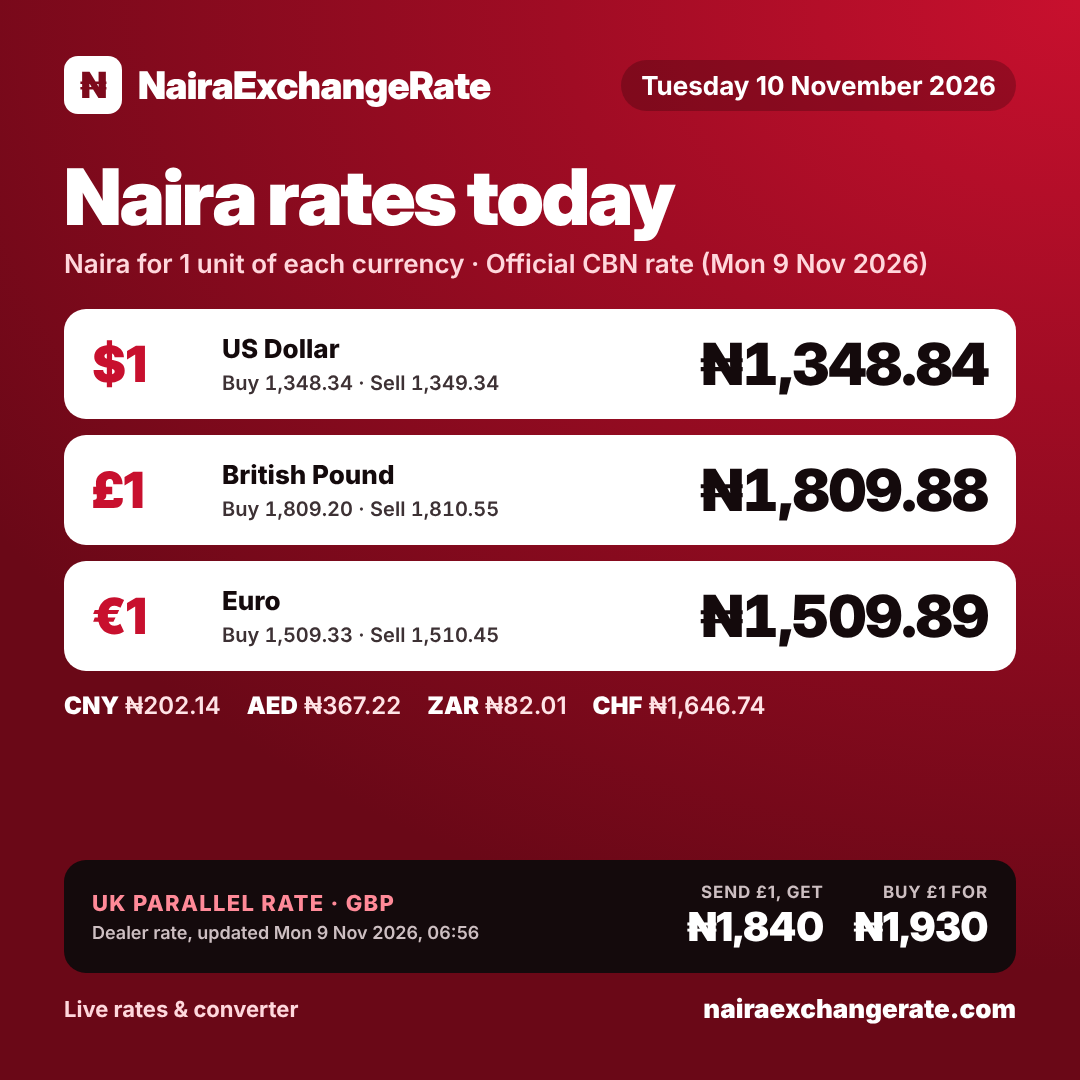
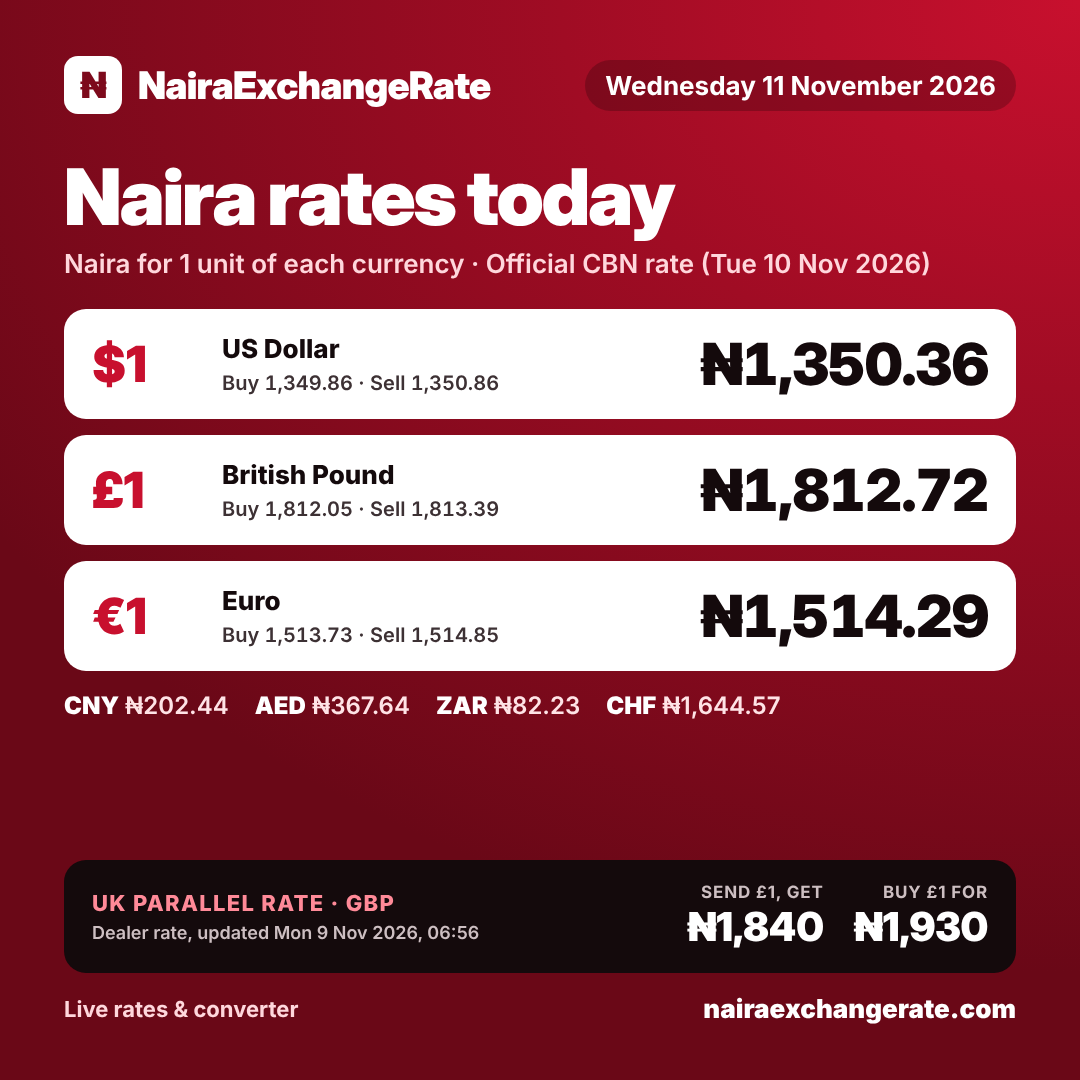
Daily update 2026-11-11
Claude-Session: https://claude.ai/code/session_01NfXuJwpmkK2vJnb6vb7TRC

diff --git a/index.html b/index.html
@@ -338,61 +338,89 @@ footer .wrap{padding-block:22px 34px;font-size:.84rem;color:var(--muted);display
     }
   ],
   "cbn": {
-    "date": "2026-11-09",
+    "date": "2026-11-10",
     "rates": {
       "xof": {
-        "buy": 2.2715,
-        "middle": 2.2815,
-        "sell": 2.2915
+        "buy": 2.2816,
+        "middle": 2.2916,
+        "sell": 2.3016
       },
       "cny": {
-        "buy": 202.0623,
-        "middle": 202.1372,
-        "sell": 202.2121
+        "buy": 202.3655,
+        "middle": 202.4404,
+        "sell": 202.5154
       },
       "eur": {
-        "buy": 1509.3333,
-        "middle": 1509.893,
-        "sell": 1510.4527
+        "buy": 1513.7315,
+        "middle": 1514.2922,
+        "sell": 1514.8529
       },
       "jpy": {
-        "buy": 8.5381,
-        "middle": 8.5413,
-        "sell": 8.5445
-      },
-      "zar": {
-        "buy": 81.9765,
-        "middle": 82.0069,
-        "sell": 82.0373
-      },
-      "chf": {
-        "buy": 1646.1254,
-        "middle": 1646.7358,
-        "sell": 1647.3462
-      },
-      "gbp": {
-        "buy": 1809.2044,
-        "middle": 1809.8753,
-        "sell": 1810.5462
-      },
-      "usd": {
-        "buy": 1348.3413,
-        "middle": 1348.8413,
-        "sell": 1349.3413
+        "buy": 8.5331,
+        "middle": 8.5363,
+        "sell": 8.5395
       },
       "sar": {
-        "buy": 359.1937,
-        "middle": 359.3269,
-        "sell": 359.4601
+        "buy": 359.6171,
+        "middle": 359.7503,
+        "sell": 359.8835
+      },
+      "zar": {
+        "buy": 82.2042,
+        "middle": 82.2346,
+        "sell": 82.2651
+      },
+      "chf": {
+        "buy": 1643.9638,
+        "middle": 1644.5728,
+        "sell": 1645.1817
+      },
+      "gbp": {
+        "buy": 1812.0503,
+        "middle": 1812.7215,
+        "sell": 1813.3927
+      },
+      "usd": {
+        "buy": 1349.8587,
+        "middle": 1350.3587,
+        "sell": 1350.8587
       },
       "aed": {
-        "buy": 367.0854,
-        "middle": 367.2215,
-        "sell": 367.3576
+        "buy": 367.5085,
+        "middle": 367.6446,
+        "sell": 367.7808
       }
     }
   },
   "news": [
+    {
+      "source": "Blueprint",
+      "title": "Senate passes bill to bring big fintechs, non-bank financial institutions under CBN regulation",
+      "summary": "The Senate passed a BOFIA amendment letting the CBN label large fintechs as systemically important and supervise them more closely.",
+      "url": "https://blueprint.ng/senate-passes-bill-to-bring-big-fintechs-non-bank-financial-institutions-under-cbn-regulation/",
+      "date": "2026-11-10"
+    },
+    {
+      "source": "Legit.ng",
+      "title": "FCCPC Warns Dangote, Petrol Marketers as New Fuel Prices Emerge in Lagos, Abuja",
+      "summary": "Petrol now sells for about ₦1,325–₦1,420 a litre in Lagos and Abuja as the competition regulator warns Dangote and marketers.",
+      "url": "https://www.legit.ng/business-economy/energy/1740600-fccpc-warns-dangote-petrol-marketers-fuel-prices-emerge-lagos-abuja/",
+      "date": "2026-11-10"
+    },
+    {
+      "source": "BusinessDay",
+      "title": "Nigeria's biggest firms' income tax payments rise 73.31% to N3.412trn on reforms",
+      "summary": "23 NGX 30 companies paid ₦3.41 trillion in income tax in nine months, up 73% on last year, led by Aradel and Seplat.",
+      "url": "https://businessday.ng/business-economy/article/nigerias-biggest-firms-income-tax-payments-rise-73-31-to-n3-412trn-on-reforms/",
+      "date": "2026-11-10"
+    },
+    {
+      "source": "Vanguard",
+      "title": "Dollar to Naira exchange rate today, November 10, 2026",
+      "summary": "The dollar averaged about ₦1,346.51 on the official market while street rates ranged ₦1,410–₦1,430.",
+      "url": "https://www.vanguardngr.com/2026/11/dollar-to-naira-exchange-rate-today-november-10-2026/",
+      "date": "2026-11-10"
+    },
     {
       "source": "BusinessDay",
       "title": "Naira gap widens to N69 as parallel market rate falls to N1,410",
@@ -406,34 +434,6 @@ footer .wrap{padding-block:22px 34px;font-size:.84rem;color:var(--muted);display
       "summary": "Nigerian stocks rebounded on Monday as the All-Share Index rose 1.44% to 252,456.74 points, lifting market value to ₦163.92 trillion.",
       "url": "https://thewillnews.com/ngx-gains-%E2%82%A62-32trn-as-all-share-index-advances-1-44-percent/",
       "date": "2026-11-09"
-    },
-    {
-      "source": "BusinessDay",
-      "title": "Cardoso defends market-driven Naira as foreign reserves hit $55bn",
-      "summary": "The CBN governor backed the market-led FX regime as reserves reached $55.13bn and the naira gained 6.26% against the dollar over the past year.",
-      "url": "https://businessday.ng/news/article/cardoso-defends-market-driven-naira-as-foreign-reserves-hit-55bn/",
-      "date": "2026-11-09"
-    },
-    {
-      "source": "Daily Trust (via AllAfrica)",
-      "title": "Nigeria Targets $100bn Annual Diaspora Investment",
-      "summary": "NiDCOM says inflows from Nigerians abroad could reach $100bn a year, ahead of the Diaspora Investment Summit in Abuja on November 10–11.",
-      "url": "https://allafrica.com/stories/202611090620.html",
-      "date": "2026-11-09"
-    },
-    {
-      "source": "BusinessDay",
-      "title": "Nigeria's net FX inflows surge nearly tenfold in four years",
-      "summary": "CBN data show net foreign exchange inflows rose from $950 million in 2022 to $9.22 billion, a jump of about 871%.",
-      "url": "https://businessday.ng/life/article/nigerias-net-fx-inflows-surge-nearly-tenfold-in-four-years/",
-      "date": "2026-11-09"
-    },
-    {
-      "source": "Legit.ng",
-      "title": "Petrol Prices Rise by N60 at Lagos Depots as Diesel Falls, Brent Crude Drops 4.85 Per Cent",
-      "summary": "Average Lagos depot petrol prices rose to about N1,279 per litre while diesel eased to around N1,777 as Brent fell below $100.",
-      "url": "https://www.legit.ng/business-economy/energy/1740165-petrol-prices-rise-by-n60-lagos-depots-diesel-falls-brent-crude-drops-485-cent/",
-      "date": "2026-11-08"
     }
   ],
   "whatsappChannel": "https://whatsapp.com/channel/0029VbEJwXxCnA7nV3kcN73I"
